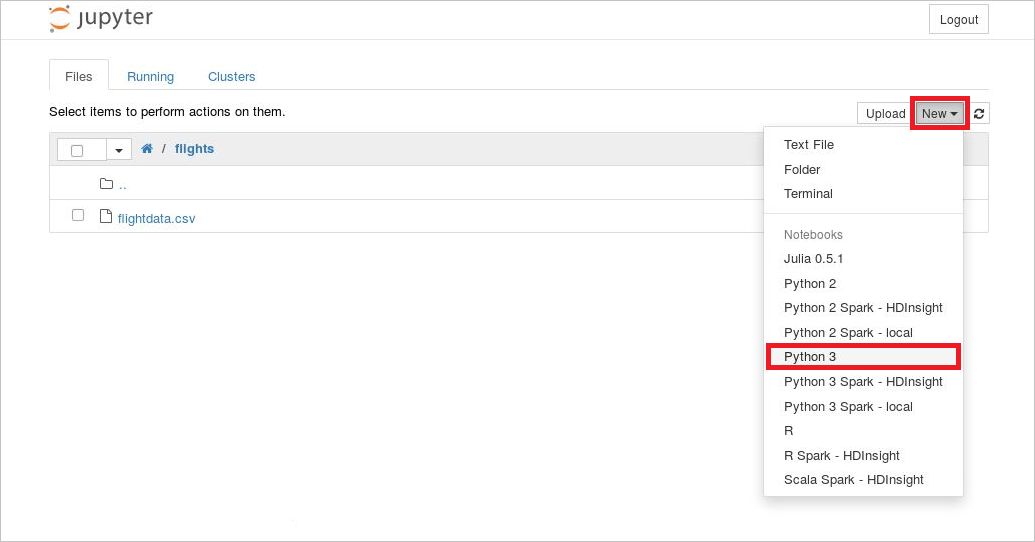
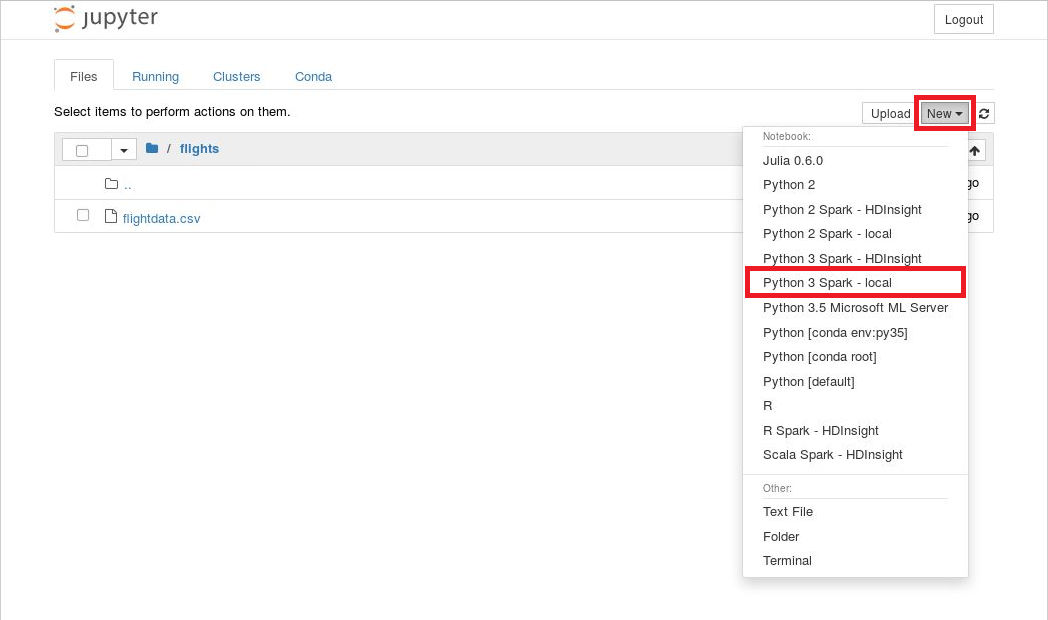
Updated Lab 1 in 200 series

diff --git a/200 - Machine Learning in Python/1 - Ingest/readme.md b/200 - Machine Learning in Python/1 - Ingest/readme.md
@@ -46,7 +46,7 @@ The Ubuntu Data Science Virtual Machine for Linux is a virtual-machine image tha
 
 1. Open the [Azure Portal](https://portal.azure.com) in your browser. If asked to log in, do so using your Microsoft account.
 
-1. Click **+ New** in the menu on the left side of the portal, and then type "data science" (without quotation marks) into the search box. Select **Data Science Virtual Machine (Ubuntu)** from the results list.
+1. Click **+ New** in the menu on the left side of the portal, and then type "data science" (without quotation marks) into the search box. Select **Data Science Virtual Machine for Linux (Ubuntu)** from the results list.
 
     ![Finding the Ubuntu Data Science VM](Images/new-data-science-vm-1.png)
 
@@ -70,17 +70,9 @@ The Ubuntu Data Science Virtual Machine for Linux is a virtual-machine image tha
 
     _Choosing a VM size_
 
-1. Scroll down in the "Settings" blade and enable **Auto-shutdown**. Enter a **Shutdown time** and select a **Time zone** to configure the VM to shut down at a specified time. Then click **OK**.
+1. Click **OK** at the bottom of the "Settings" blade. Then take a moment to review the options you selected for the VM, and click **Create** to create it.
 
-	> VMs incur charges regardless of whether they're being used. By configuring the VM to shut down at a specified time, you can ensure that it is shut down for the night even if you don't explicitly shut it down when you're finished with it for the day.
-
-    ![Configuring the VM to shut down automatically](Images/create-data-science-vm-3.png)
-
-    _Configuring the VM to shut down automatically_
-
-1. Take a moment to review the options you selected for the VM. Then click **Create** to create it.
-
-    ![Creating the VM](Images/create-data-science-vm-4.png)
+    ![Creating the VM](Images/create-data-science-vm-3.png)
 
     _Creating the VM_
 
@@ -90,7 +82,7 @@ The Ubuntu Data Science Virtual Machine for Linux is a virtual-machine image tha
 
     _Opening the resource group_
 
-1. Wait until "Deploying" changes to "Succeeded" indicating that deployment has completed. Deployment typically takes about 5 minutes. Periodically cick the **Refresh** button at the top of the blade to refresh the deployment status.
+1. Wait until "Deploying" changes to "Succeeded" indicating that deployment has completed. Deployment typically takes 5 minutes or less. Periodically cick the **Refresh** button at the top of the blade to refresh the deployment status.
 
     ![Monitoring the deployment status](Images/deployment-succeeded.png)
 
@@ -101,7 +93,9 @@ The VM has been created. The next step is to connect to it remotely so you can w
 <a name="Exercise2"></a>
 ## Exercise 2: Connect to the Data Science VM ##
 
-In this exercise, you will connect remotely to the Ubuntu desktop in the VM that you created in the previous exercise. To do so, you need a client that supports [Xfce](https://xfce.org/), which is a lightweight desktop environment for Linux. If you don't already have an Xfce client installed, download the [X2Go client](https://wiki.x2go.org/doku.php/download:start) and install it now. X2Go is a free and open-source Xfce solution that works on a variety of operating systems. The instructions in this exercise assume you are using X2Go, but you can use any client as long as it supports Xfce.
+In this exercise, you will connect remotely to the Ubuntu desktop in the VM that you created in the previous exercise. To do so, you need a client that supports [Xfce](https://xfce.org/), which is a lightweight desktop environment for Linux.
+
+1. If you don't already have an Xfce client installed, download the [X2Go client](https://wiki.x2go.org/doku.php/download:start) and install it now. X2Go is a free and open-source Xfce solution that works on a variety of operating systems. The instructions in this exercise assume you are using X2Go, but you can use any client as long as it supports Xfce.
 
 1. Return to the Azure Portal and the blade for the resource group containing the Data Science VM. Then click the VM.
 
@@ -158,7 +152,7 @@ In this exercise, you will import a dataset from Azure blob storage into the VM 
     cd notebooks
     mkdir flights
     cd flights
-    curl https://a4r.blob.core.windows.net/public/FlightData.csv --output flightdata.csv
+    curl https://topcs.blob.core.windows.net/public/FlightData.csv --output flightdata.csv
     ```
 
 1. Click **Applications** in the upper-left corner of the desktop. Then click **Development**, followed by **JupyterHub**.
@@ -173,7 +167,7 @@ In this exercise, you will import a dataset from Azure blob storage into the VM 
 
     _Opening the "flights" directory_
 
-1. Confirm that **flightdata.csv** is present in the "flights" directory. Then click the **New** button and choose **Python 3** from the drop-down list to create a new Jupyter notebook with a Python 3 kernel.
+1. Confirm that **flightdata.csv** is present in the "flights" directory. Then click the **New** button and choose **Python 3 Spark - local** from the drop-down list to create a new Jupyter notebook with a Python 3 kernel.
 
     ![Creating a new Jupyter notebook](Images/new-python-3.png)
 
@@ -194,7 +188,7 @@ In this exercise, you will import a dataset from Azure blob storage into the VM 
 
     _Loading the dataset_
 
-	The DataFrame that you created contains on-time arrival information for a major U.S. airline. It has more than 11,000 rows and 26 columns. (The output says "5 rows" because DataFrame's [head](https://pandas.pydata.org/pandas-docs/stable/generated/pandas.DataFrame.head.html) only returns the first five rows.) Each row represents one flight and contains information such as the origin, the destination, the scheduled departure time, and whether the flight arrived on time or late. You will learn more about the data, including its content and structure, in the next lab.
+	The DataFrame that you created contains on-time arrival information for a major U.S. airline. It has more than 11,000 rows and 26 columns. (The output says "5 rows" because DataFrame's [head](https://pandas.pydata.org/pandas-docs/stable/generated/pandas.DataFrame.head.html) function only returns the first five rows.) Each row represents one flight and contains information such as the origin, the destination, the scheduled departure time, and whether the flight arrived on time or late. You will learn more about the data, including its content and structure, in the next lab.
 
 1. Use the **File** -> **Save and Checkpoint** command to save the notebook.
 
